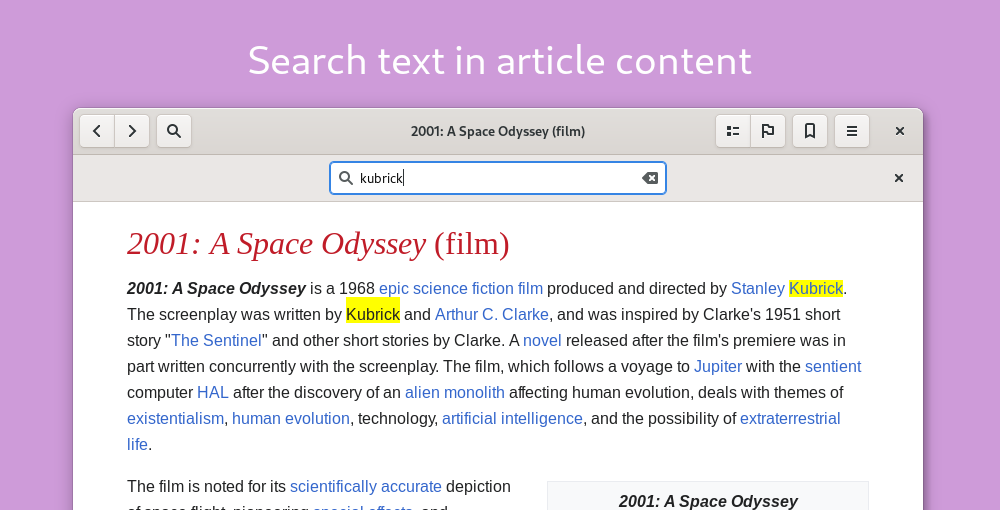
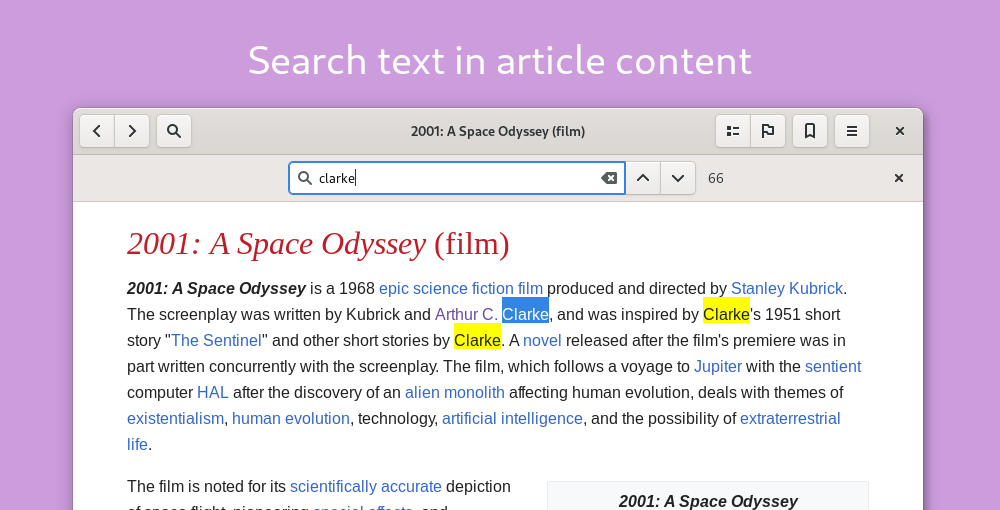
Improved text search bar

diff --git a/src/window.py b/src/window.py
@@ -37,6 +37,9 @@ class Window(Gtk.ApplicationWindow):
   box = Gtk.Template.Child()
   search_bar = Gtk.Template.Child()
   textsearch_entry = Gtk.Template.Child()
+  textsearch_prev_button = Gtk.Template.Child()
+  textsearch_next_button = Gtk.Template.Child()
+  textsearch_matches_label = Gtk.Template.Child()
   notification = Gtk.Template.Child()
   notification_label = Gtk.Template.Child()
   notification_close_button = Gtk.Template.Child()
@@ -77,6 +80,7 @@ class Window(Gtk.ApplicationWindow):
 
     find_controller = wikiview.get_find_controller()
     nav_list = wikiview.get_back_forward_list()
+    self.search_bar.connect_entry(self.textsearch_entry)
 
     wikiview.connect('load-wiki', self._wikiview_load_wiki_cb)
     wikiview.connect('load-changed', self._wikiview_load_changed_cb)
@@ -84,7 +88,11 @@ class Window(Gtk.ApplicationWindow):
     wikiview.connect('add-bookmark', self._wikiview_add_bookmark_cb)
     self.textsearch_entry.connect('changed', self._textsearch_entry_changed_cb, find_controller)
     self.textsearch_entry.connect('activate', self._textsearch_entry_activate_cb, find_controller)
+    self.textsearch_prev_button.connect('clicked', self._textsearch_prev_button_clicked_cb, find_controller)
+    self.textsearch_next_button.connect('clicked', self._textsearch_next_button_clicked_cb, find_controller)
+    find_controller.connect('found-text', self._find_controller_found_cb)
     find_controller.connect('failed-to-find-text', self._find_controller_not_found_cb)
+    find_controller.connect('counted-matches', self._find_controller_matches_cb)
     nav_list.connect('changed', self._nav_list_changed_cb)
     self.notification_close_button.connect('clicked', self._hide_notification_cb)
 
@@ -135,22 +143,52 @@ class Window(Gtk.ApplicationWindow):
 
   def _textsearch_entry_changed_cb(self, textsearch_entry, find_controller):
     text_length = textsearch_entry.get_text_length()
-    if text_length > 1:
-      find_controller.search(textsearch_entry.get_text(), WebKit2.FindOptions.CASE_INSENSITIVE | WebKit2.FindOptions.WRAP_AROUND, 1000000)
+    if text_length > 2:
+      text = textsearch_entry.get_text()
+      find_controller.count_matches(text, WebKit2.FindOptions.WRAP_AROUND | WebKit2.FindOptions.CASE_INSENSITIVE, 9999)
+      find_controller.search(text, WebKit2.FindOptions.WRAP_AROUND | WebKit2.FindOptions.CASE_INSENSITIVE, 9999)
     else:
+      self.textsearch_matches_label.set_label('')
+      self.textsearch_prev_button.set_sensitive(False)
+      self.textsearch_next_button.set_sensitive(False)
       find_controller.search_finish()
 
-  # Next ocurrence of text in article
+  # On entry activated search next match
 
   def _textsearch_entry_activate_cb(self, textsearch_entry, find_controller):
     text_length = textsearch_entry.get_text_length()
-    if text_length > 1:
+    if text_length > 2:
       find_controller.search_next()
+
+  # On text search prev button clicked search previous match
+
+  def _textsearch_prev_button_clicked_cb(self, textsearch_prev_button, find_controller):
+    find_controller.search_previous()
+
+  # On text search next button clicked search next match
+
+  def _textsearch_next_button_clicked_cb(self, textsearch_next_button, find_controller):
+    find_controller.search_next()
+
+  # Found text in article
+
+  def _find_controller_found_cb(self, find_controller, match_count):
+    self.textsearch_prev_button.set_sensitive(True)
+    self.textsearch_next_button.set_sensitive(True)
 
   # Not found text in article
 
   def _find_controller_not_found_cb(self, find_controller):
+    self.textsearch_matches_label.set_markup('<span foreground="red">' + str(0) + '</span>')
+    self.textsearch_prev_button.set_sensitive(False)
+    self.textsearch_next_button.set_sensitive(False)
+    find_controller.search_finish()
     Gdk.beep()
+
+  # Show text search matches found
+
+  def _find_controller_matches_cb(self, find_controller, match_count):
+    self.textsearch_matches_label.set_label(str(match_count))
 
   # Refresh navbox state on navlist changed
 

diff --git a/src/wikipedia.py b/src/wikipedia.py
@@ -81,7 +81,7 @@ def get_properties(page, lang):
 def _request(params):
   global _session
   global _api
-  headers = { 'User-Agent': 'Wike/1.0.0 (https://github.com/hugolabe)' }
+  headers = { 'User-Agent': 'Wike/1.1.0 (https://github.com/hugolabe)' }
 
   if type(params) is dict:
     response = _session.get(url=_api, params=params, headers=headers, timeout=(4, 12))
